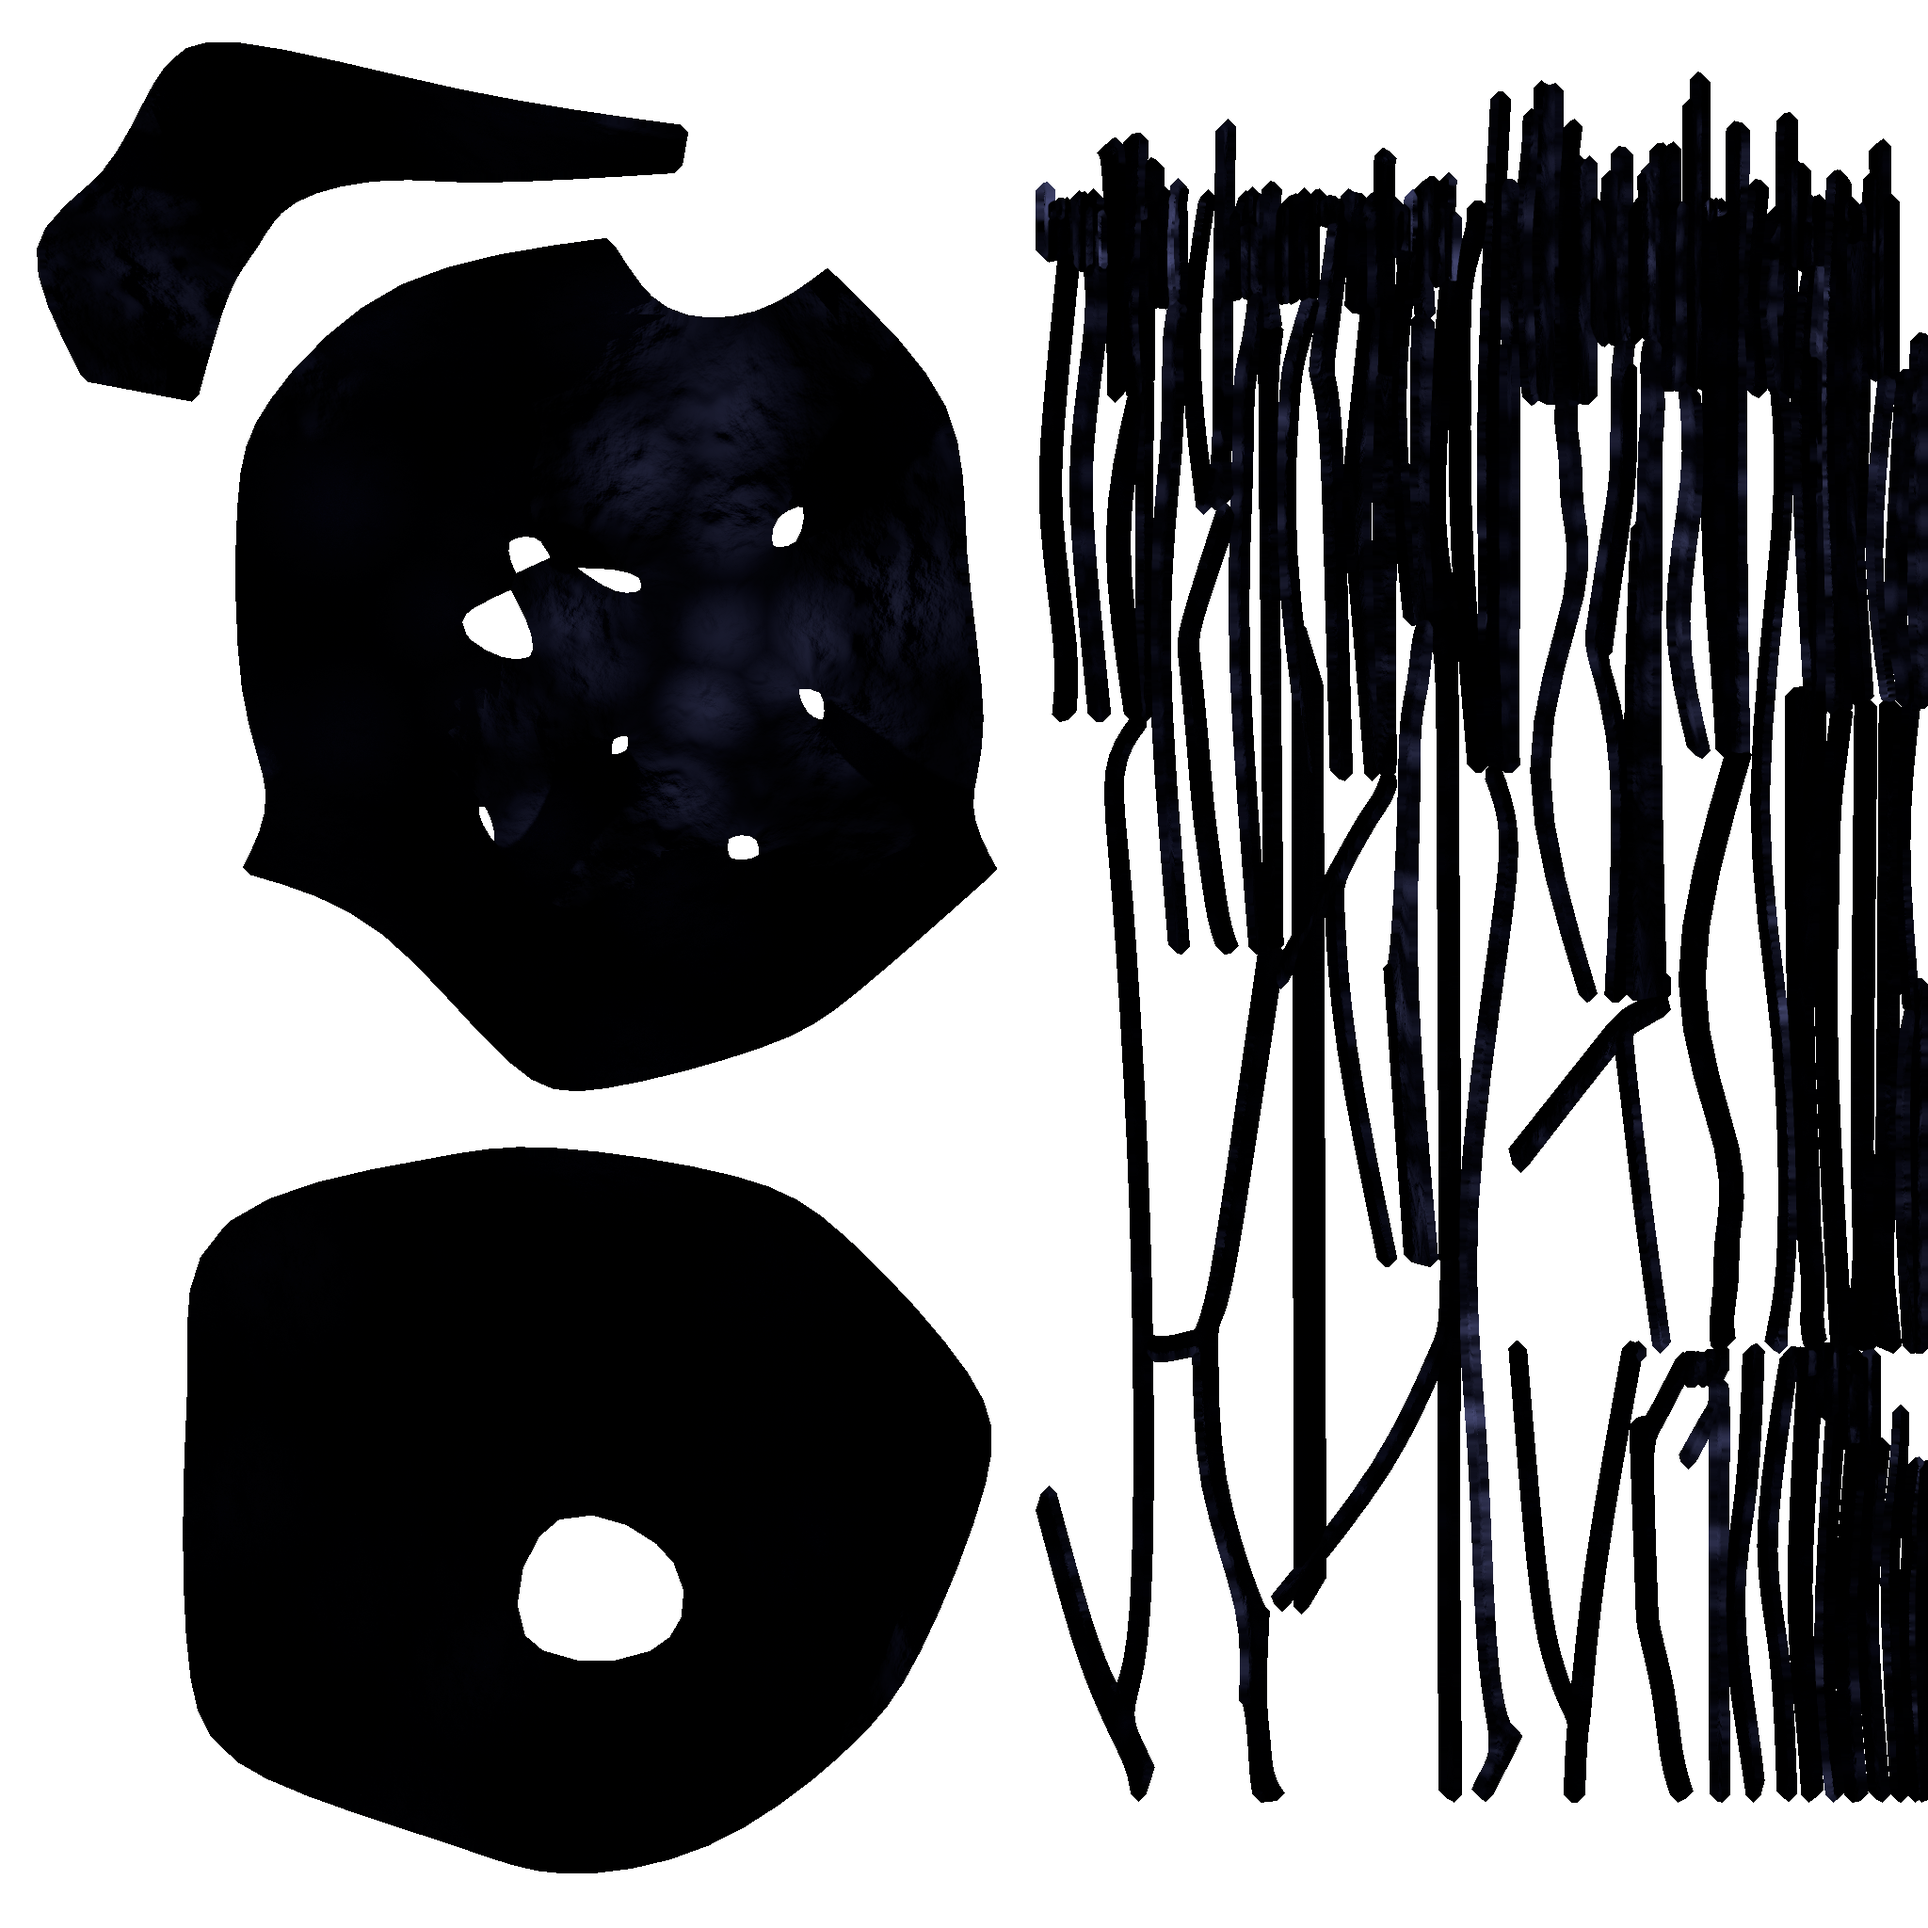
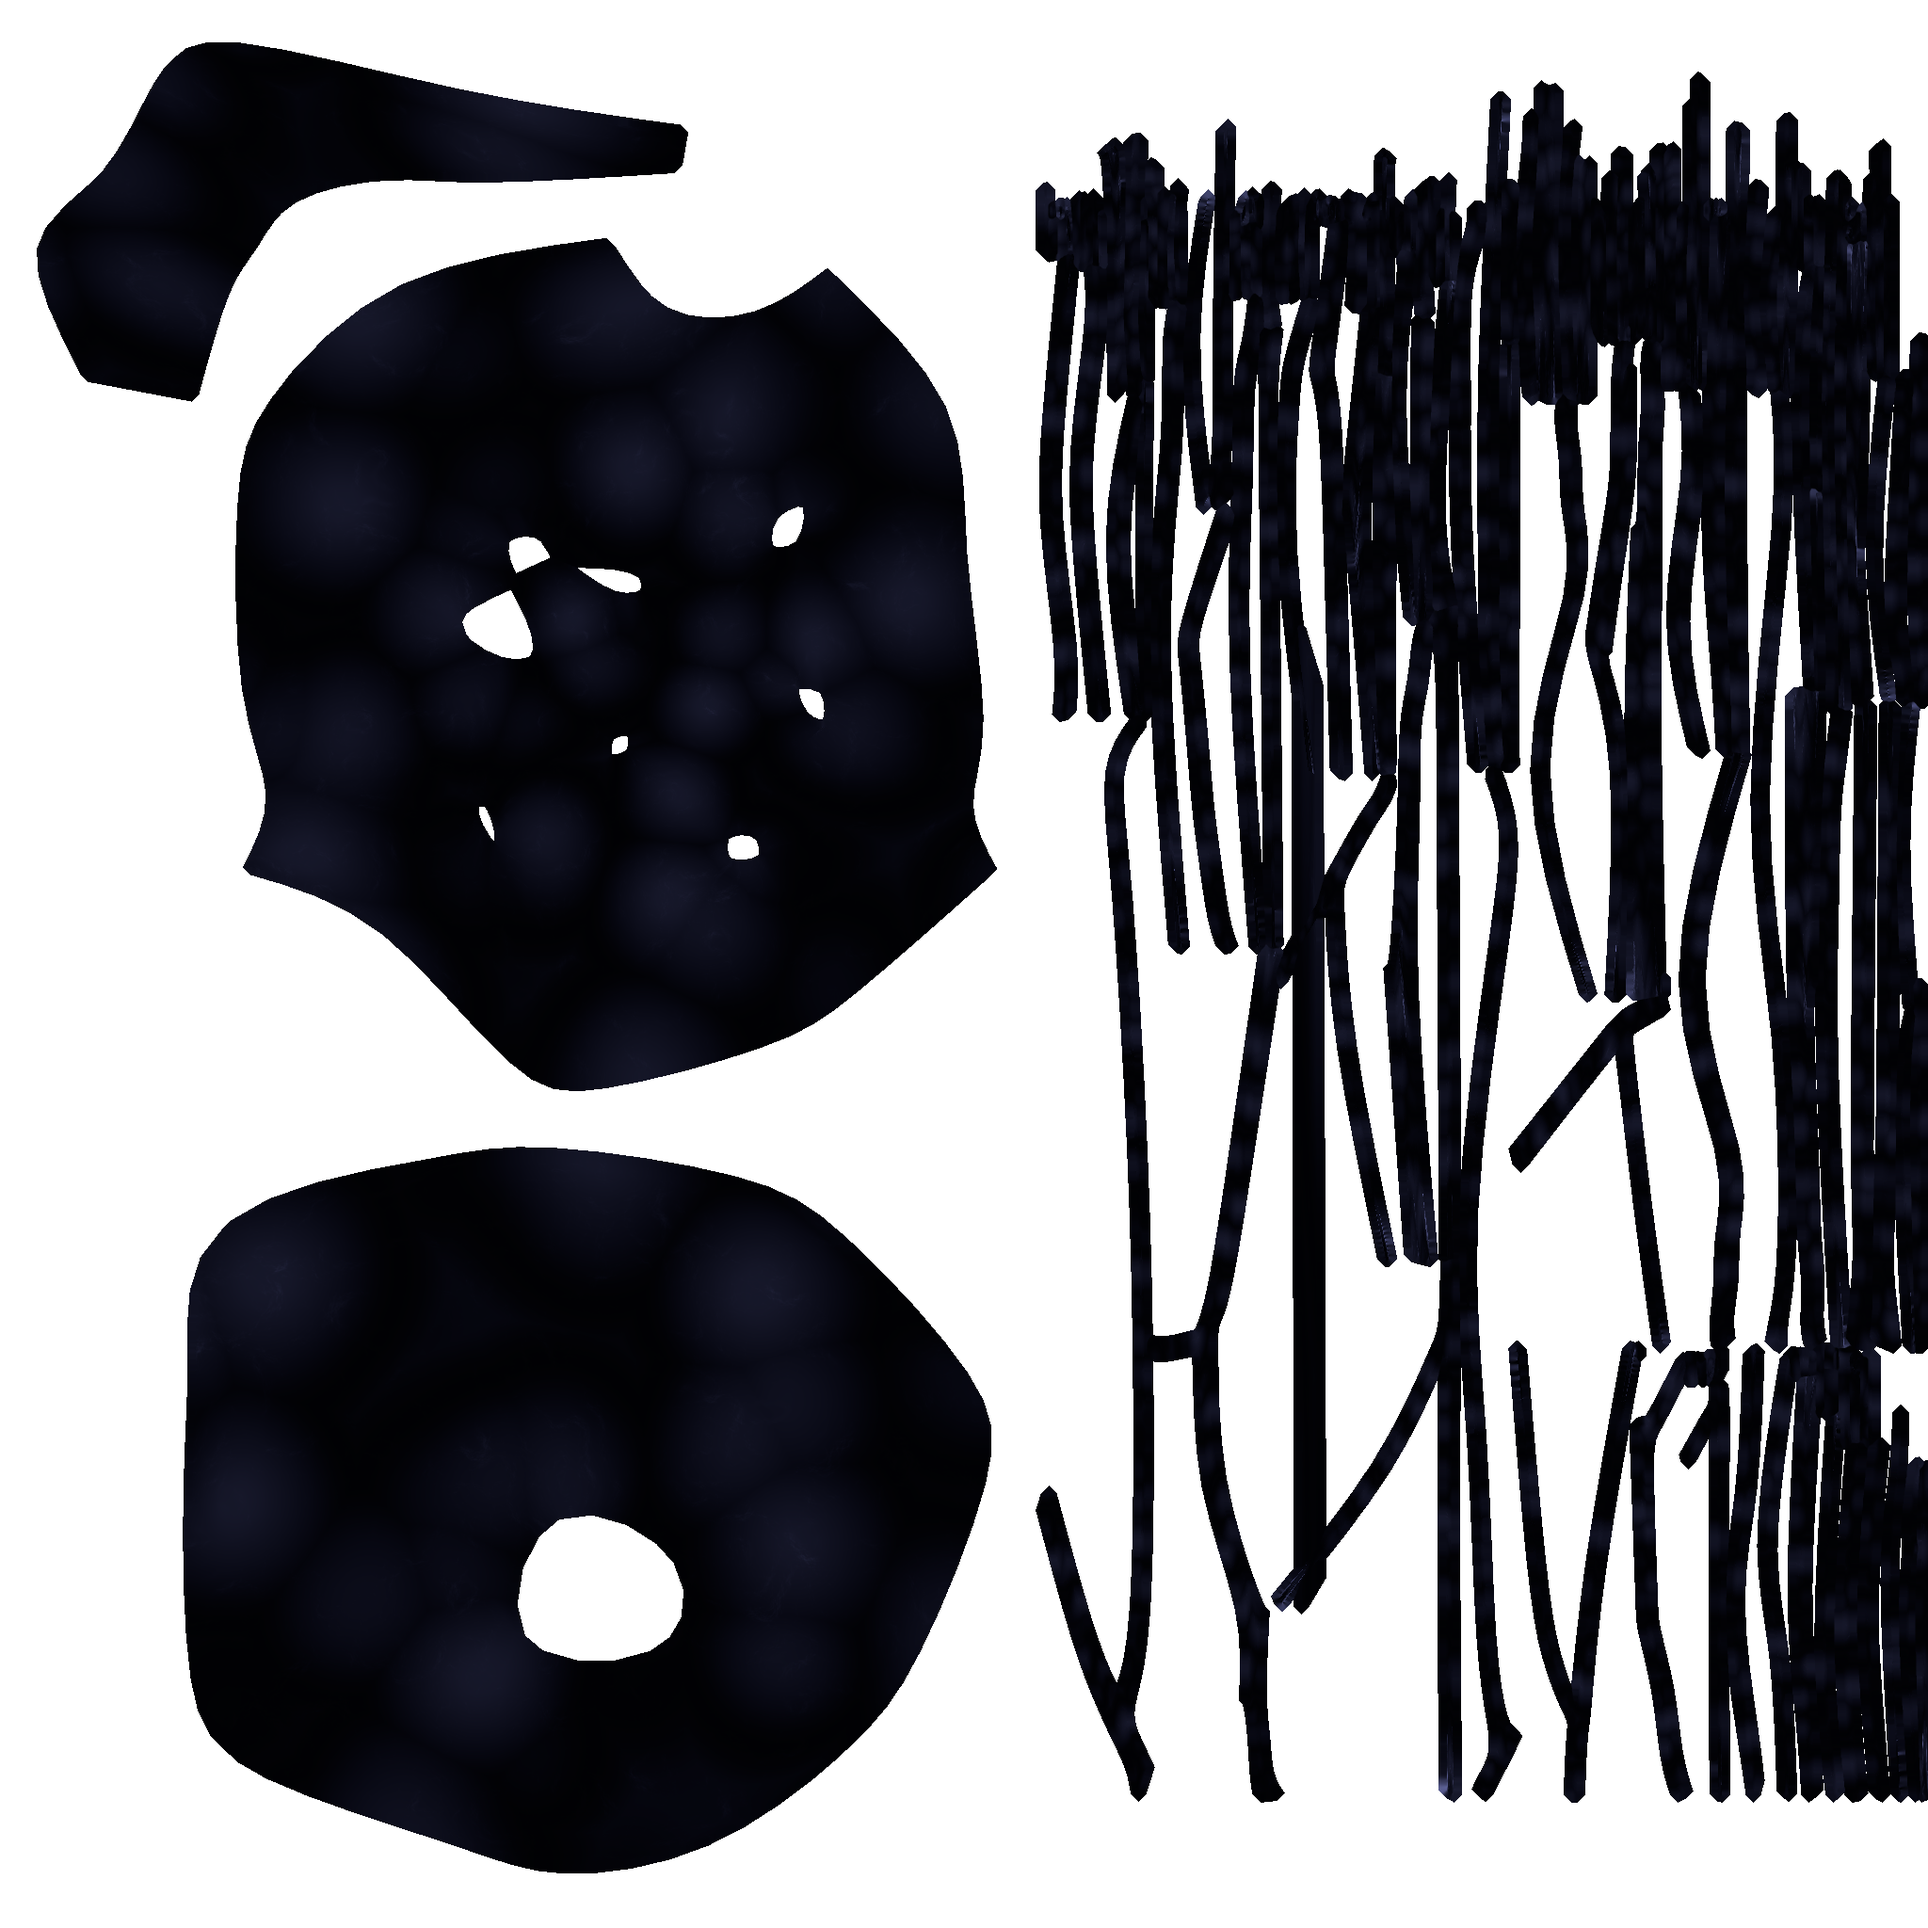
working pulse light and texture emission

diff --git a/babylon-personal/src/app/bg-canvas/bg-canvas.component.ts b/babylon-personal/src/app/bg-canvas/bg-canvas.component.ts
@@ -6,6 +6,8 @@ const dendriteNrmlMap = '../../assets/scenes/grey-scene/scene/dendrite_bw_bake_0
 const dendriteGrey = '../../assets/blender-babylon/dendrite_bw_bake_01.png';
 const dendriteColor = '../../assets/scenes/color-scene/dendrite-color-bake.png';
 const dendriteEmit = '../../assets/scenes/color-scene/dendrite-color-bake.png';
+const particleTexture = '../../assets/scenes/grey-scene/scene/mote-texture-blur.png';
+let t = 0.01;
 
 @Component({
     selector: 'app-bg-canvas',
@@ -18,12 +20,14 @@ export class BgCanvasComponent implements OnInit, OnChanges {
     dendriteGreyMat: BABYLON.Material;
     dendriteColorMat: BABYLON.PBRMaterial;
     dendrites: BABYLON.AbstractMesh[];
+    loadedScene: BABYLON.Scene;
+    motes: BABYLON.ParticleSystem;
+    lights: BABYLON.Light[];
     @Input() selectedTheme = 'grey';
 
     constructor() { }
 
     ngOnChanges() {
-        console.log('changes!@', this.selectedTheme);
         this.setTheme(this.selectedTheme);
     }
 
@@ -41,26 +45,36 @@ export class BgCanvasComponent implements OnInit, OnChanges {
             'scene.babylon',
             scene,
             (loadedScene: BABYLON.Scene) => {
+                this.loadedScene = loadedScene;
+                const gl = new BABYLON.GlowLayer('glow', this.loadedScene);
+                gl.intensity = 1;
+                loadedScene.fogMode = BABYLON.Scene.FOGMODE_EXP;
                 this.particleInit(loadedScene);
                 // loadedScene.activeCamera.attachControl(this.canvas.nativeElement, true);
                 // console.log('pre clear', loadedScene.activeCamera);
-                loadedScene.ambientColor = new BABYLON.Color3(.3, .3, .5);
+                loadedScene.ambientColor = new BABYLON.Color3(.3, .3, 1);
                 // loadedScene.cameras[1].speed = 0.1;
                 const flyCam = new BABYLON.FlyCamera('fly-cam', loadedScene.activeCamera.position, loadedScene);
                 flyCam.fov = 0.75;
                 flyCam.rotation =  new BABYLON.Vector3(0, 5.35, 0);
                 flyCam.speed = .1;
                 flyCam.angularSensibility = 250;
-                flyCam.rollCorrect = 50;
-                console.log('flycam input', flyCam.inputs);
-                console.log('main-cam', loadedScene.activeCamera);
+                flyCam.rollCorrect = 25;
+                // console.log('flycam input', flyCam.inputs);
+                // console.log('main-cam', loadedScene.activeCamera);
                 loadedScene.activeCamera = flyCam;
                 loadedScene.activeCamera.attachControl(this.canvas.nativeElement, true);
-                console.log('fly-cam', loadedScene.activeCamera);
+                // console.log('fly-cam', loadedScene.activeCamera);
                 this.dendrites = loadedScene.meshes.filter(mesh => mesh.name.includes('dendrite'));
                 this.materialsInit(loadedScene);
                 this.dofInit(loadedScene);
-                this.setTheme(this.selectedTheme);
+                // this.setTheme(this.selectedTheme);
+                this.lightsInit();
+                this.setTheme('color');
+                this.loadedScene.onBeforeRenderObservable.add(function() {
+                    t += 0.01;
+                    gl.intensity = Math.cos(t) * 5 + 3;
+                });
             }
         );
         // BABYLON.Tools.LoadFile('../../assets/scenes/grey-scene/scene/scenea7af9e4e-df35-4baa-91bc-29652ed697eb.editorproject',
@@ -79,67 +93,96 @@ export class BgCanvasComponent implements OnInit, OnChanges {
             this.engine.resize();
         });
     }
+    lightsInit() {
+        this.lights = this.loadedScene.lights;
+        this.lights.map(light => {
+            light.intensity = 0;
+            light.intensityMode = BABYLON.Light.INTENSITYMODE_LUMINOUSINTENSITY;
+        });
+    }
     setTheme(theme: string) {
         if ( theme === 'grey' ) {
+            this.motes.stop();
+            this.motes.particleTexture = new BABYLON.Texture(particleTexture, this.loadedScene);
+            this.motes.addColorGradient(0, new BABYLON.Color4(0, 0, 0, 0));
+            this.motes.addColorGradient(0.5, new BABYLON.Color4(0.4, 0.4, 0.4, 1));
+            this.motes.addColorGradient(1, new BABYLON.Color4(0, 0, 0, 0.0));
+            this.motes.start();
             this.dendrites.map(dendrite => dendrite.material = this.dendriteGreyMat);
+            this.lights.map(light => {
+                // this.loadedScene.clearColor = new BABYLON.Color4( .1, .1, .1, 1 );
+                light.intensity = 100;
+                light.intensityMode = BABYLON.Light.INTENSITYMODE_AUTOMATIC;
+            });
         } else if ( theme === 'color' ) {
+            this.motes.addColorGradient(0, new BABYLON.Color4(0, 0, 0, 0));
+            // this.motes.addColorGradient(0.5, new BABYLON.Color4(0.3, 0.2, 1, 1));
+            this.motes.addColorGradient(0.5, new BABYLON.Color4(0.4, 0.4, 0.4, 1));
+            this.motes.addColorGradient(1, new BABYLON.Color4(0, 0, 0, 0));
             this.dendrites.map(dendrite => dendrite.material = this.dendriteColorMat);
+            this.lights.map(light => {
+                light.intensity = 0;
+                light.diffuse = new BABYLON.Color3(0.3, 0.2, 1);
+                light.intensityMode = BABYLON.Light.INTENSITYMODE_AUTOMATIC;
+                this.loadedScene.onBeforeRenderObservable.add(function() {
+                    t += 0.001;
+                    light.intensity = Math.cos(t) * 1 + 1000;
+                });
+            });
         }
     }
     materialsInit(loadedScene: BABYLON.Scene) {
         // const color = new BABYLON.Color3( .3, .3, .3 );
         this.dendriteGreyMat = this.dendrites[0].material;
-        this.dendriteColorMat = new BABYLON.PBRMaterial('dendriteMatS', loadedScene);
-        console.log(loadedScene.lights);
-        const lights = loadedScene.lights;
-        lights.map(light => light.intensity = 35);
+        const dendriteColorMat = new BABYLON.PBRMaterial('dendriteMatS', loadedScene);
         // console.log(dendriteColorMat);
-        this.dendriteColorMat.usePhysicalLightFalloff = false;
-        this.dendriteColorMat.useRadianceOverAlpha = true;
-        this.dendriteColorMat.useMicroSurfaceFromReflectivityMapAlpha = true;
-        this.dendriteColorMat.albedoTexture = new BABYLON.Texture(dendriteColor, loadedScene);
-        this.dendriteColorMat.reflectivityColor = new BABYLON.Color3( .3, .2, 1 );
-        this.dendriteColorMat.albedoColor = new BABYLON.Color3( .9, .2, 1 );
-        this.dendriteColorMat.bumpTexture = new BABYLON.Texture(dendriteNrmlMap, loadedScene);
-        this.dendriteColorMat.reflectivityTexture = new BABYLON.Texture(dendriteEmit, loadedScene);
-        this.dendriteColorMat.microSurface = .75;
-        this.dendriteColorMat.emissiveTexture = new BABYLON.Texture(dendriteEmit, loadedScene);
-        this.dendriteColorMat.emissiveIntensity = 1000;
+        dendriteColorMat.usePhysicalLightFalloff = true;
+        dendriteColorMat.useRadianceOverAlpha = true;
+        dendriteColorMat.useMicroSurfaceFromReflectivityMapAlpha = true;
+        dendriteColorMat.albedoTexture = new BABYLON.Texture(dendriteGrey, loadedScene);
+        dendriteColorMat.albedoColor = new BABYLON.Color3( .5, .2, 1 );
+        dendriteColorMat.reflectivityColor = new BABYLON.Color3( .3, .2, 1 );
+        dendriteColorMat.bumpTexture = new BABYLON.Texture(dendriteNrmlMap, loadedScene);
+        dendriteColorMat.reflectivityTexture = new BABYLON.Texture(dendriteColor, loadedScene);
+        // dendriteColorMat.ambientTexture = new BABYLON.Texture(dendriteEmit, loadedScene);
+        // dendriteColorMat.ambientTextureStrength = 1000;
+        dendriteColorMat.microSurface = .85;
+        dendriteColorMat.emissiveTexture = new BABYLON.Texture(dendriteEmit, loadedScene);
+        dendriteColorMat.emissiveIntensity = 1000;
+        dendriteColorMat.emissiveColor = new BABYLON.Color3( .5, .2, 1 );
         // console.log(dendriteColorMat);
+        this.dendriteColorMat = dendriteColorMat;
+        loadedScene.onBeforeRenderObservable.add(function() {
+            t += 0.001;
+            dendriteColorMat.emissiveIntensity = Math.cos(t) * 5 + 3;
+        });
 
     }
     particleInit(scene: BABYLON.Scene) {
-        const motes = new BABYLON.ParticleSystem('motes', 500, scene);
-        motes.emitter = new BABYLON.Vector3(0, 0, 0);
-        motes.minEmitBox = new BABYLON.Vector3(-5, -5, -5);
-        motes.maxEmitBox = new BABYLON.Vector3(5, 5, 5);
-        motes.particleTexture = new BABYLON.Texture('../../assets/scenes/grey-scene/scene/mote-texture-blur.png', scene);
-        // motes.color1 = new BABYLON.Color4(0, 0, 0, 0);
-        // motes.color1 = new BABYLON.Color4(0.1, 0.1, 0.1, 0.1);
-        // motes.colorDead = new BABYLON.Color4(0, 0, 0, 0);
-        motes.addColorGradient(0, new BABYLON.Color4(0, 0, 0, 0));
-        motes.addColorGradient(0.5, new BABYLON.Color4(0.4, 0.4, 0.4, 1));
-        motes.addColorGradient(1, new BABYLON.Color4(0.1, 0.1, 0.1, 0.0));
-        // motes.color1 = new BABYLON.Color4(0.3, 0.3, 1, 0.6);
-        motes.maxLifeTime = 30;
-        motes.minLifeTime = 5;
+        this.motes = new BABYLON.ParticleSystem('motes', 500, scene);
+        this.motes.emitter = new BABYLON.Vector3(0, 0, 0);
+        this.motes.minEmitBox = new BABYLON.Vector3(-5, -5, -5);
+        this.motes.maxEmitBox = new BABYLON.Vector3(5, 5, 5);
+        this.motes.particleTexture = new BABYLON.Texture(particleTexture, scene);
+        this.motes.maxLifeTime = 30;
+        this.motes.minLifeTime = 5;
 
-        motes.direction1 = new BABYLON.Vector3(-7, 8, 3);
-        motes.direction2 = new BABYLON.Vector3(7, -8, -3);
+        this.motes.direction1 = new BABYLON.Vector3(-7, 8, 3);
+        this.motes.direction2 = new BABYLON.Vector3(7, -8, -3);
 
-        motes.emitRate = 10;
+        this.motes.emitRate = 10;
 
         // angular speed
-        motes.minAngularSpeed = 0;
-        motes.maxAngularSpeed = 0.5;
+        this.motes.minAngularSpeed = 0;
+        this.motes.maxAngularSpeed = 0.5;
 
-        motes.minSize = 0.05;
-        motes.maxSize = 0.5;
-        motes.minEmitPower = .01;
-        motes.maxEmitPower = .1;
-        motes.preWarmCycles = 1000;
-        motes.blendMode = BABYLON.ParticleSystem.BLENDMODE_ONEONE;
-        motes.start();
+        this.motes.minSize = 0.05;
+        this.motes.maxSize = 0.5;
+        this.motes.minEmitPower = .01;
+        this.motes.maxEmitPower = .1;
+        this.motes.preWarmCycles = 1000;
+        this.motes.blendMode = BABYLON.ParticleSystem.BLENDMODE_ONEONE;
+        this.motes.start();
 
     }
     dofInit(loadedScene: BABYLON.Scene) {
@@ -153,7 +196,7 @@ export class BgCanvasComponent implements OnInit, OnChanges {
             dof_pentagon: true,
             dof_gain: 1.0,
             dof_threshold: 1.0,
-            dof_darken: 0.25,
+            // dof_darken: 0.25,
         }, loadedScene, 1.0, [loadedScene.activeCamera]);
 
     }
